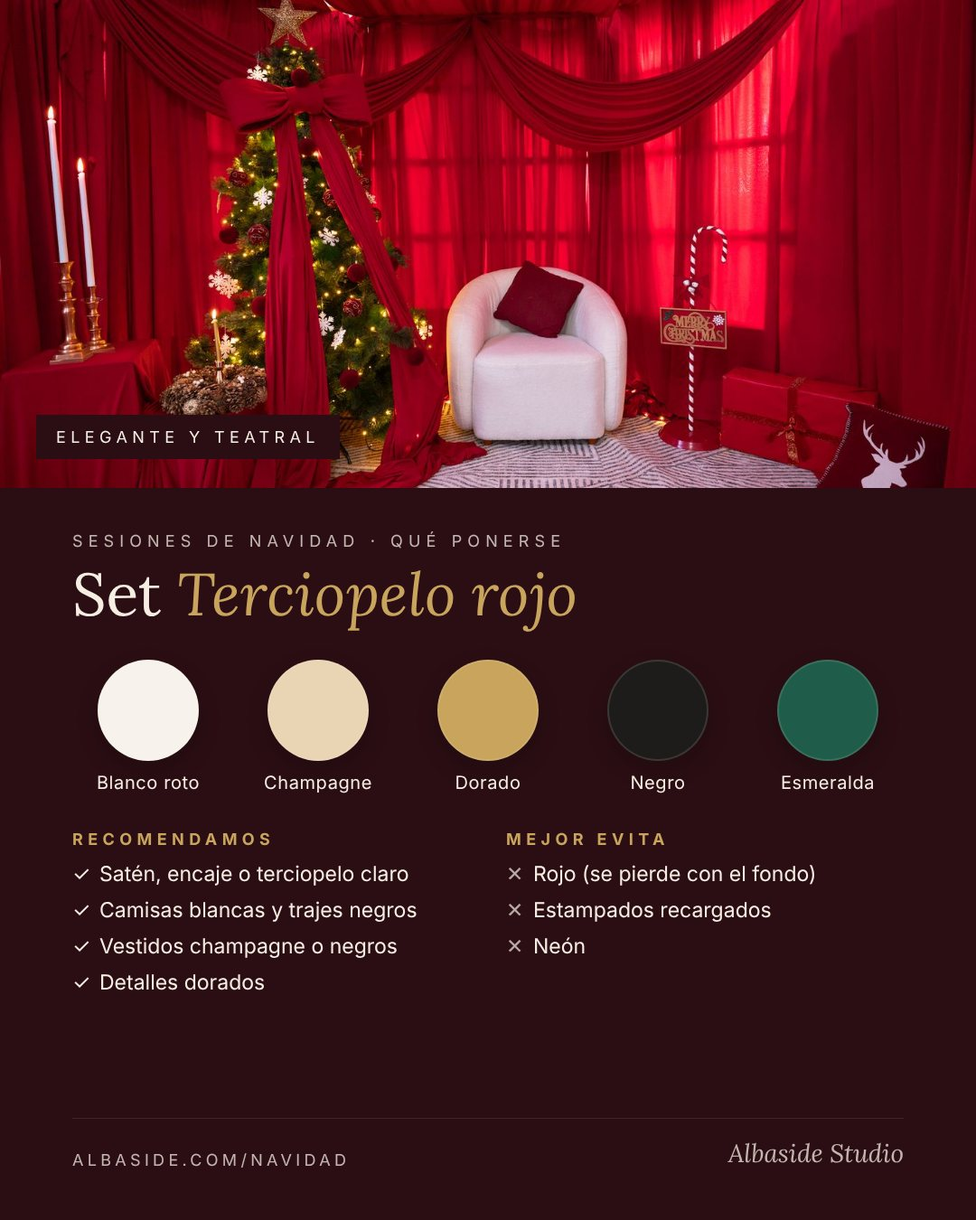
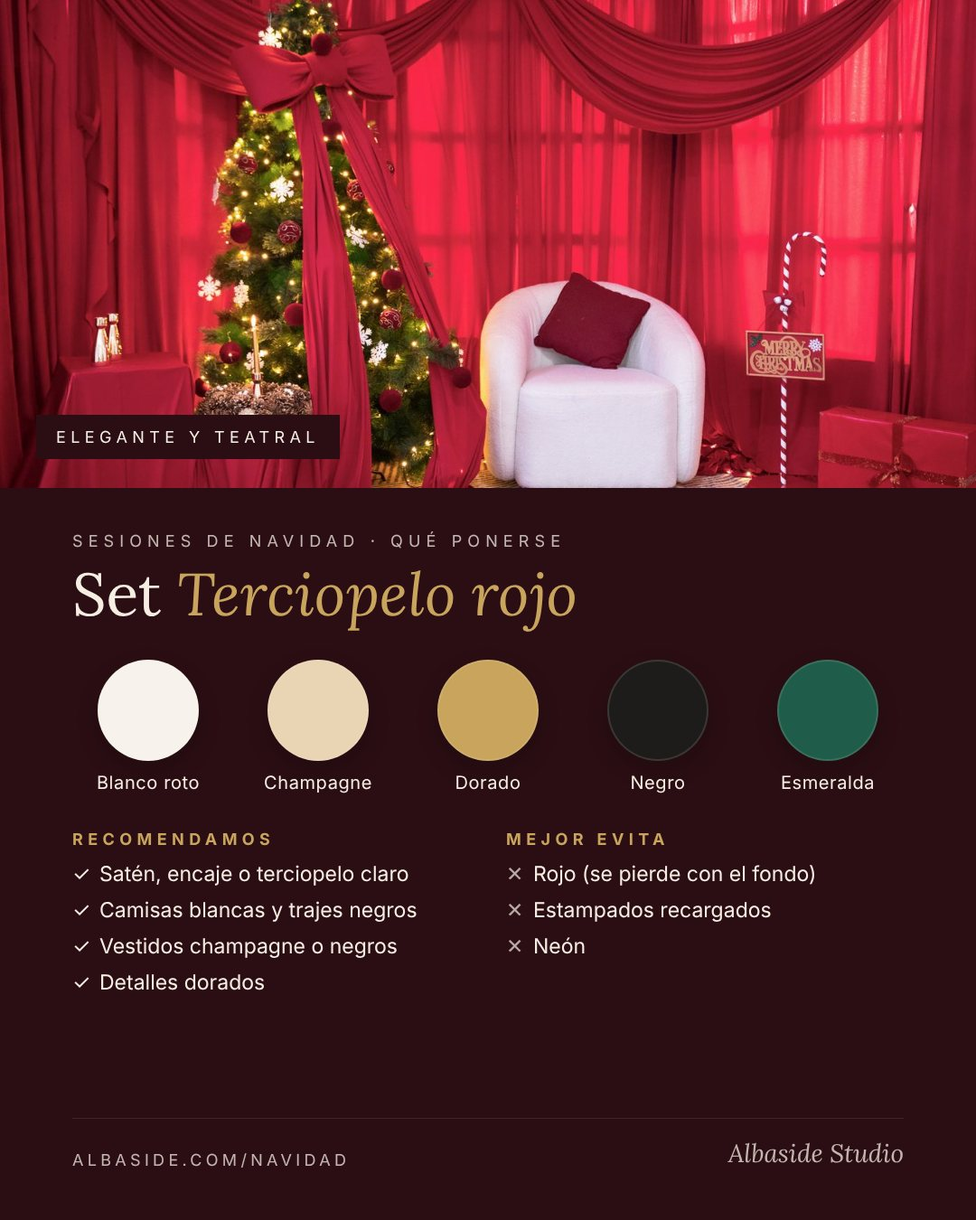
Navidad: 3 paquetes, set Disco navideño, códigos de descuento y nuevas fotos Terciopelo rojo

diff --git a/navidad.html b/navidad.html
@@ -4,7 +4,7 @@
 <meta charset="UTF-8">
 <meta name="viewport" content="width=device-width, initial-scale=1">
 <title>Sesiones de fotos de Navidad en Cusco 2026 | Albaside Studio</title>
-<meta name="description" content="Sesiones de fotos navideñas de 1 hora en estudio en Cusco, del 20 de noviembre al 15 de diciembre. Preventa desde S/ 280. De lunes a viernes. Separa tu fecha y paga tu reserva con Yape.">
+<meta name="description" content="Sesiones de fotos navideñas de 30 a 50 minutos en estudio en Cusco, del 20 de noviembre al 15 de diciembre. Preventa desde S/ 280. De lunes a viernes. Separa tu fecha y paga tu reserva con Yape.">
 <link rel="canonical" href="https://albaside.com/navidad">
 <meta name="theme-color" content="#6E1423">
 <link rel="icon" href="/favicon.ico" sizes="48x48">
@@ -14,13 +14,13 @@
 <meta property="og:locale" content="es_PE">
 <meta property="og:site_name" content="Albaside Studio">
 <meta property="og:title" content="Sesiones de Navidad 2026 · Albaside Studio">
-<meta property="og:description" content="Sesión íntima en estudio con decoración navideña. Preventa: 1 set S/ 280 · 2 sets S/ 380. De lunes a viernes, del 20 de noviembre al 15 de diciembre.">
+<meta property="og:description" content="Sesión íntima en estudio con decoración navideña. Preventa: 1 set S/ 280 · 2 sets S/ 380 · 3 sets S/ 450. De lunes a viernes, del 20 de noviembre al 15 de diciembre.">
 <meta property="og:url" content="https://albaside.com/navidad">
 <meta property="og:image" content="https://albaside.com/media/navidad/navidad-telefono.jpg">
 <meta name="twitter:card" content="summary_large_image">
 <link rel="preconnect" href="https://fonts.googleapis.com"><link rel="preconnect" href="https://fonts.gstatic.com" crossorigin>
 <link href="https://fonts.googleapis.com/css2?family=Cormorant:ital,wght@0,300;0,400;0,500;1,300;1,400&family=Montserrat:wght@300;400;500;600&display=swap" rel="stylesheet">
-<script type="application/ld+json">{"@context": "https://schema.org", "@type": "Service", "name": "Sesiones de fotos de Navidad en Cusco", "serviceType": "Sesión de fotos navideña en estudio", "provider": {"@type": "ProfessionalService", "name": "Albaside Studio", "url": "https://albaside.com/", "telephone": "+51977217281", "address": {"@type": "PostalAddress", "addressLocality": "San Jerónimo", "addressRegion": "Cusco", "addressCountry": "PE", "streetAddress": "Larapa"}}, "areaServed": "Cusco", "url": "https://albaside.com/navidad", "offers": [{"@type": "Offer", "name": "Sesión de Navidad · 1 set", "price": "280", "priceCurrency": "PEN", "availabilityEnds": "2026-12-15"}, {"@type": "Offer", "name": "Sesión de Navidad · 2 sets", "price": "380", "priceCurrency": "PEN", "availabilityEnds": "2026-12-15"}]}</script>
+<script type="application/ld+json">{"@context": "https://schema.org", "@type": "Service", "name": "Sesiones de fotos de Navidad en Cusco", "serviceType": "Sesión de fotos navideña en estudio", "provider": {"@type": "ProfessionalService", "name": "Albaside Studio", "url": "https://albaside.com/", "telephone": "+51977217281", "address": {"@type": "PostalAddress", "addressLocality": "San Jerónimo", "addressRegion": "Cusco", "addressCountry": "PE", "streetAddress": "Larapa"}}, "areaServed": "Cusco", "url": "https://albaside.com/navidad", "offers": [{"@type": "Offer", "name": "Sesión de Navidad · 1 set", "price": "280", "priceCurrency": "PEN", "availabilityEnds": "2026-12-15"}, {"@type": "Offer", "name": "Sesión de Navidad · 2 sets", "price": "380", "priceCurrency": "PEN", "availabilityEnds": "2026-12-15"}, {"@type": "Offer", "name": "Sesión de Navidad · 3 sets", "price": "450", "priceCurrency": "PEN", "availabilityEnds": "2026-12-15"}]}</script>
 <!-- META PIXEL + CAPI (deduplicados con event_id) -->
 <script>
 !function(f,b,e,v,n,t,s)
@@ -116,7 +116,7 @@ header{position:sticky;top:0;z-index:40;background:rgba(255,255,255,.95);backdro
 
 /* Sets */
 .sets{display:grid;gap:26px;margin-top:56px}
-@media(min-width:760px){.sets{grid-template-columns:repeat(2,1fr);max-width:920px;margin-left:auto;margin-right:auto}}
+@media(min-width:760px){.sets{grid-template-columns:repeat(3,1fr);max-width:1180px;margin-left:auto;margin-right:auto}}
 .set{display:flex;flex-direction:column;gap:16px}
 .set .ph{aspect-ratio:4/5;overflow:hidden;background:var(--cream);position:relative}
 .set .ph img{width:100%;height:100%;object-fit:cover;transition:transform 1.2s var(--ease)}
@@ -132,22 +132,33 @@ header{position:sticky;top:0;z-index:40;background:rgba(255,255,255,.95);backdro
 .masonry{display:grid;grid-template-columns:repeat(2,1fr);gap:8px}
 .masonry img{width:100%;height:100%;aspect-ratio:1;object-fit:cover;display:block;background:var(--cream)}
 .masonry img:first-child{grid-column:span 2;aspect-ratio:3/2}
+.masonry.duo img{grid-column:auto!important;grid-row:auto!important;aspect-ratio:2/3!important}
+.set .ph .ref{position:absolute;right:10px;bottom:10px;background:rgba(255,255,255,.85);color:var(--ink);font-size:10px;letter-spacing:.14em;text-transform:uppercase;padding:5px 8px}
+.ref-note{font-size:12px;color:var(--muted);margin-top:10px}
 .masonry img:last-child{grid-column:span 2;aspect-ratio:2/1}
-@media(min-width:760px){.masonry{grid-template-columns:repeat(3,1fr);gap:12px}.masonry img:first-child{grid-row:span 2;aspect-ratio:auto}.masonry img:last-child{grid-column:auto;aspect-ratio:1}}
+@media(min-width:760px){.masonry.duo{grid-template-columns:1fr 1fr;max-width:760px;margin:0 auto}.masonry{grid-template-columns:repeat(3,1fr);gap:12px}.masonry img:first-child{grid-row:span 2;aspect-ratio:auto}.masonry img:last-child{grid-column:auto;aspect-ratio:1}}
 
 /* Precios */
 .prices{background:var(--cream)}
 .price-grid{display:grid;gap:22px;margin-top:56px;max-width:900px;margin-left:auto;margin-right:auto}
-@media(min-width:760px){.price-grid{grid-template-columns:1fr 1fr}}
-.price{background:#fff;padding:40px 34px;text-align:center;position:relative;border:1px solid var(--line)}
-.price.feat{border-color:var(--wine)}
+.price-grid{max-width:1100px}
+@media(min-width:860px){.price-grid{grid-template-columns:repeat(3,1fr)}}
+.price{background:#fff;padding:40px 30px 30px;text-align:center;position:relative;border:1px solid var(--line);font:inherit;color:inherit;cursor:pointer;display:flex;flex-direction:column;align-items:center;transition:border-color .25s,box-shadow .25s,transform .25s}
+.price:hover{border-color:rgba(110,20,35,.45)}
+.price[aria-checked="true"]{border-color:var(--wine);box-shadow:inset 0 0 0 1px var(--wine),0 24px 50px -30px rgba(110,20,35,.45)}
+.price:focus-visible{outline:2px solid var(--gold);outline-offset:3px}
+.feat-list{list-style:none;margin:22px 0 0;padding:18px 0 0;border-top:1px solid var(--line);width:100%;display:grid;gap:8px;font-size:14px}
+.feat-list b{font-family:var(--serif);font-size:20px;font-weight:400;color:var(--wine)}
+.price .pick{margin-top:22px;font-size:10.5px;letter-spacing:.24em;text-transform:uppercase;padding:11px 18px;border:1px solid var(--wine);color:var(--wine)}
+.price[aria-checked="true"] .pick{background:var(--wine);color:#fff}
+.price[aria-checked="true"] .pick::before{content:"✓ ";}
 .price .badge{position:absolute;top:-12px;left:50%;transform:translateX(-50%);background:var(--wine);color:#fff;font:400 10px/1 var(--sans);letter-spacing:.24em;text-transform:uppercase;padding:8px 12px;white-space:nowrap}
 .price h3{margin-bottom:6px}
 .price .amt{font-family:var(--serif);font-size:64px;line-height:1;color:var(--ink);font-variant-numeric:tabular-nums}
 .price .amt small{font-size:26px;vertical-align:top;margin-right:4px}
 .price .was{display:block;margin-top:8px;font-size:13px;color:var(--muted)}
 .price .was s{color:var(--muted)}
-.price .save{display:inline-block;margin-top:14px;font-size:11px;letter-spacing:.2em;text-transform:uppercase;color:var(--olive)}
+.price .save{display:none;display:inline-block;margin-top:14px;font-size:11px;letter-spacing:.2em;text-transform:uppercase;color:var(--olive)}
 .includes{max-width:900px;margin:30px auto 0;display:grid;gap:10px;grid-template-columns:repeat(auto-fit,minmax(190px,1fr));list-style:none}
 .includes li{background:#fff;padding:16px 18px;border:1px solid var(--line);font-size:14px;display:flex;gap:10px;align-items:center}
 .includes li b{font-family:var(--serif);font-size:26px;font-weight:400;color:var(--wine);line-height:1;min-width:34px}
@@ -182,6 +193,15 @@ fieldset.f{border:0}
 .form-total b{font-family:var(--serif);font-size:30px;font-weight:400;color:var(--ink)}
 .form-msg{margin-top:12px;font-size:14px;color:var(--wine);min-height:1em}
 .hp{position:absolute;left:-9999px}
+.code-row{display:flex;gap:8px}
+.code-row input{flex:1;text-transform:uppercase;letter-spacing:.08em}
+.btn-ghost{background:#fff;border:1px solid var(--wine);color:var(--wine);padding:0 18px;white-space:nowrap}
+.btn-ghost:hover{background:var(--wine);color:#fff}
+.code-msg{font-size:13px;margin-top:6px;min-height:1em;color:var(--olive)}
+.code-msg.err{color:var(--wine)}
+.form-total b span{text-transform:none;letter-spacing:0;font-size:inherit;color:inherit}
+.form-total b s{font-size:20px;color:var(--muted);margin-right:6px}
+.form-total small.off{display:block;font-family:var(--sans);font-size:12px;color:var(--olive);letter-spacing:.04em}
 
 /* Pago con Yape */
 .pay{background:var(--cream)}
@@ -224,7 +244,8 @@ fieldset.f{border:0}
 /* Qué ponerse */
 .outfits{background:var(--cream)}
 .outfit-grid{display:grid;gap:24px;margin-top:50px;max-width:980px;margin-left:auto;margin-right:auto}
-@media(min-width:760px){.outfit-grid{grid-template-columns:1fr 1fr}}
+.outfit-grid{max-width:1180px}
+@media(min-width:760px){.outfit-grid{grid-template-columns:repeat(3,1fr)}}
 .outfit-grid img{width:100%;height:auto;box-shadow:0 30px 60px -36px rgba(43,41,38,.45)}
 .outfit-grid figcaption{font-size:12px;letter-spacing:.2em;text-transform:uppercase;color:var(--muted);margin-top:12px;text-align:center}
 .tips{list-style:none;max-width:980px;margin:34px auto 0;display:grid;gap:12px}
@@ -312,8 +333,8 @@ footer small{display:block;opacity:.75}
   <div class="wrap">
     <div class="center reveal">
       <span class="eyebrow">Elige tu decoración</span>
-      <h2>Dos sets, <em>dos navidades</em></h2>
-      <p class="lead" style="margin-top:18px">Cada set está armado en el estudio. Eliges uno o los dos, y nosotros nos encargamos de la luz, la dirección y los detalles.</p>
+      <h2>Tres sets, <em>tres navidades</em></h2>
+      <p class="lead" style="margin-top:18px">Cada set está armado en el estudio. Eliges uno, dos o los tres, y nosotros nos encargamos de la luz, la dirección y los detalles.</p>
     </div>
     <div class="sets">
       <article class="set reveal">
@@ -329,6 +350,13 @@ footer small{display:block;opacity:.75}
         <h3>Terciopelo rojo</h3>
         <p>Cortinas rojas drapeadas, un árbol envuelto en un moño gigante, velas doradas y un sillón blanco. Elegante y teatral, perfecto para fotos en familia o en pareja.</p>
         <a class="see" href="#galeria-terciopelo">Ver el set →</a>
+      </article>
+      <article class="set reveal">
+        <div class="ph"><img src="/media/navidad/set-disco.jpg" alt="Set Disco navideño: fondo verde, torres de regalos rojos y esferas de espejo plateadas alrededor de un asiento blanco" width="1000" height="1499" loading="lazy"><span class="ref">Imagen referencial</span></div>
+        <span class="num">Set 3</span>
+        <h3>Disco navideño</h3>
+        <p>Fondo verde profundo, torres de regalos rojos y esferas de espejo que llenan la foto de brillos. Divertido y moderno, ideal para amigas, parejas o fotos individuales.</p>
+        <a class="see" href="#galeria-disco">Ver el set →</a>
       </article>
     </div>
 
@@ -350,9 +378,17 @@ footer small{display:block;opacity:.75}
         <img src="/media/navidad/rojo-lazo.jpg" alt="Estrella dorada y moño rojo gigante sobre el árbol de Navidad" width="800" height="1200" loading="lazy">
         <img src="/media/navidad/rojo-letrero.jpg" alt="Bastón de caramelo con letrero Merry Christmas junto a un regalo rojo" width="800" height="1200" loading="lazy">
         <img src="/media/navidad/rojo-velas.jpg" alt="Árbol con copos de nieve blancos, esferas de terciopelo y una vela encendida" width="800" height="1200" loading="lazy">
-        <img src="/media/navidad/rojo-2.jpg" alt="Sillón blanco con cojín rojo frente a cortinas rojas drapeadas" width="1400" height="934" loading="lazy">
+        <img src="/media/navidad/set-terciopelo.jpg" alt="Árbol de Navidad envuelto en un moño rojo gigante junto al sillón blanco" width="1000" height="1499" loading="lazy">
         <img src="/media/navidad/rojo-3.jpg" alt="Vista amplia del set Terciopelo rojo con el árbol, el sillón y el bastón de caramelo" width="1400" height="933" loading="lazy">
       </div>
+    </div>
+    <div class="gal reveal" id="galeria-disco">
+      <div class="gal-h"><span class="num">Set 3</span><h3>Disco navideño</h3></div>
+      <div class="masonry duo">
+        <img src="/media/navidad/set-disco.jpg" alt="Mujer sentada entre regalos rojos y esferas de espejo, con los brazos abiertos" width="1000" height="1499" loading="lazy">
+        <img src="/media/navidad/disco-2.jpg" alt="Mujer sonriendo abrazando una esfera de espejo, rodeada de regalos rojos sobre fondo verde" width="1000" height="1499" loading="lazy">
+      </div>
+      <p class="ref-note">Imágenes referenciales del set.</p>
     </div>
   </div>
 </section>
@@ -369,6 +405,7 @@ footer small{display:block;opacity:.75}
     <div class="outfit-grid">
       <figure class="reveal"><img src="/media/navidad/outfit-bosque-nevado.jpg" alt="Paleta para el set Bosque nevado: marfil, crema, camel, chocolate y verde pino. Recomendamos tejidos de punto, lino, pana, vestidos marfil y pantalones camel; mejor evitar rojo intenso, negro total, neón y logos grandes." width="1080" height="1350" loading="lazy"><figcaption>Set Bosque nevado · tonos cálidos y naturales</figcaption></figure>
       <figure class="reveal"><img src="/media/navidad/outfit-terciopelo-rojo.jpg" alt="Paleta para el set Terciopelo rojo: blanco roto, champagne, dorado, negro y esmeralda. Recomendamos satén, encaje, camisas blancas, trajes negros y detalles dorados; mejor evitar rojo, estampados recargados y neón." width="1080" height="1350" loading="lazy"><figcaption>Set Terciopelo rojo · elegante, sin rojo</figcaption></figure>
+      <figure class="reveal"><img src="/media/navidad/outfit-disco.jpg" alt="Paleta para el set Disco navideño: blanco, plateado, rojo cereza, negro y dorado. Recomendamos lentejuelas, brillos, tejidos de punto blancos, vestidos rojos o plateados y accesorios metálicos; mejor evitar verde, estampados recargados y neón." width="1080" height="1350" loading="lazy"><figcaption>Set Disco navideño · brillos, sin verde</figcaption></figure>
     </div>
     <ul class="tips reveal">
       <li><b>Telas con textura</b> como punto, lana, terciopelo o encaje se ven muy bien en foto.</li>
@@ -386,39 +423,49 @@ footer small{display:block;opacity:.75}
       <h2>Precios <em>de preventa</em></h2>
       <p class="lead" style="margin-top:18px">Aprovecha el precio especial mientras dure la preventa.</p>
     </div>
-    <div class="price-grid">
-      <div class="price reveal">
+    <div class="price-grid" role="radiogroup" aria-label="Elige tu paquete">
+      <button type="button" class="price reveal" data-pk="1 set" role="radio" aria-checked="true">
         <h3>1 set</h3>
         <div class="amt"><small>S/</small>280</div>
         <span class="was">Precio regular <s>S/ 350</s></span>
-        <span class="save">Ahorras S/ 70</span>
-      </div>
-      <div class="price feat reveal">
+        <ul class="feat-list"><li><b>30</b> min de sesión</li><li>Hasta <b>3</b> personas</li><li><b>8</b> fotos editadas</li><li><b>1</b> decoración</li></ul>
+        <span class="pick">Elegir</span>
+      </button>
+      <button type="button" class="price reveal" data-pk="2 sets" role="radio" aria-checked="false">
         <span class="badge">El favorito</span>
         <h3>2 sets</h3>
         <div class="amt"><small>S/</small>380</div>
         <span class="was">Precio regular <s>S/ 450</s></span>
-        <span class="save">Ahorras S/ 70</span>
-      </div>
+        <ul class="feat-list"><li><b>40</b> min de sesión</li><li>Hasta <b>4</b> personas</li><li><b>12</b> fotos editadas</li><li><b>2</b> decoraciones</li></ul>
+        <span class="pick">Elegir</span>
+      </button>
+      <button type="button" class="price reveal" data-pk="3 sets" role="radio" aria-checked="false">
+        <h3>3 sets</h3>
+        <div class="amt"><small>S/</small>450</div>
+        <span class="was">Precio regular <s>S/ 550</s></span>
+        <ul class="feat-list"><li><b>50</b> min de sesión</li><li>Hasta <b>6</b> personas</li><li><b>18</b> fotos editadas</li><li><b>3</b> decoraciones</li></ul>
+        <span class="pick">Elegir</span>
+      </button>
     </div>
-    <ul class="includes reveal" aria-label="Qué incluye tu sesión">
-      <li><b>1</b> hora de sesión</li>
-      <li><b>✦</b> Decoración elegida</li>
-      <li><b>10</b> fotografías editadas</li>
+    <ul class="includes reveal" aria-label="Qué incluye tu sesión" aria-live="polite">
+      <li><b id="incMin">30</b> minutos de sesión</li>
+      <li><b id="incPer">3</b> personas como máximo</li>
+      <li><b id="incFot">8</b> fotografías editadas</li>
       <li><b>2</b> fotografías impresas</li>
     </ul>
+    <p class="center" style="margin-top:30px"><a class="btn btn-wine" href="#separar" id="goBook">Separar con <span id="goPk">1 set</span></a></p>
   </div>
 </section>
 
-<!-- 5 · SEPARAR FECHA (calendario de Cal.com, lunes a viernes, sesiones de 1 hora) -->
+<!-- 5 · SEPARAR FECHA (calendario de Cal.com, lunes a viernes; 30/40/50 min según paquete) -->
 <section id="separar">
   <div class="wrap book-grid">
     <div class="reveal">
       <span class="eyebrow">Separar fecha</span>
       <h2>Reserva tu <em>horario</em></h2>
-      <p class="lead" style="margin-top:18px">Elige tu paquete y luego el día y la hora en el calendario. Sesiones de 1 hora, de lunes a viernes, del 20 de noviembre al 15 de diciembre.</p>
+      <p class="lead" style="margin-top:18px">Elige tu paquete, tus sets y luego el día y la hora en el calendario. De lunes a viernes, del 20 de noviembre al 15 de diciembre.</p>
       <ol class="steps">
-        <li><div><b>Elige paquete y set</b>1 set o los 2 sets.</div></li>
+        <li><div><b>Elige paquete y sets</b>1, 2 o 3 sets. Si tienes un código de descuento, aplícalo aquí.</div></li>
         <li><div><b>Elige día y hora</b>En el calendario solo aparecen los horarios libres.</div></li>
         <li><div><b>Paga S/ 50 por Yape</b>Y envía el comprobante por WhatsApp para confirmar.</div></li>
       </ol>
@@ -427,24 +474,31 @@ footer small{display:block;opacity:.75}
     <div class="card reveal" id="bookCard" style="background:var(--cream);padding:34px 28px">
       <form id="pickForm" novalidate>
         <fieldset class="f"><legend>Paquete</legend>
-          <div class="opts two">
-            <label class="opt"><input type="radio" name="paquete" value="1 set" checked><span>1 set<small>S/ 280 en preventa</small></span></label>
-            <label class="opt"><input type="radio" name="paquete" value="2 sets"><span>2 sets<small>S/ 380 · Bosque nevado y Terciopelo rojo</small></span></label>
+          <div class="opts three">
+            <label class="opt"><input type="radio" name="paquete" value="1 set" checked><span>1 set<small>30 min · 3 personas · 8 fotos</small></span></label>
+            <label class="opt"><input type="radio" name="paquete" value="2 sets"><span>2 sets<small>40 min · 4 personas · 12 fotos</small></span></label>
+            <label class="opt"><input type="radio" name="paquete" value="3 sets"><span>3 sets<small>50 min · 6 personas · 18 fotos</small></span></label>
           </div>
         </fieldset>
-        <fieldset class="f" id="setField" style="margin-top:16px"><legend>Set</legend>
-          <div class="opts two">
-            <label class="opt"><input type="radio" name="set" value="Bosque nevado" checked><span>Bosque nevado</span></label>
-            <label class="opt"><input type="radio" name="set" value="Terciopelo rojo"><span>Terciopelo rojo</span></label>
+        <fieldset class="f" id="setField" style="margin-top:16px"><legend id="setLegend">Elige 1 set</legend>
+          <div class="opts three">
+            <label class="opt"><input type="checkbox" name="set" value="Bosque nevado" checked><span>Bosque nevado</span></label>
+            <label class="opt"><input type="checkbox" name="set" value="Terciopelo rojo"><span>Terciopelo rojo</span></label>
+            <label class="opt"><input type="checkbox" name="set" value="Disco navideño"><span>Disco navideño</span></label>
           </div>
         </fieldset>
-        <div class="form-total"><span>Total de tu paquete</span><b id="total">S/ 280</b></div>
+        <div class="f code" style="margin-top:16px">
+          <label for="code">Código de descuento</label>
+          <div class="code-row"><input id="code" name="code" autocomplete="off" autocapitalize="characters" spellcheck="false" placeholder="Escribe tu código"><button type="button" class="btn btn-ghost" id="applyCode">Aplicar</button></div>
+          <p class="code-msg" id="codeMsg" aria-live="polite"></p>
+        </div>
+        <div class="form-total"><span>Total de tu paquete</span><b><s id="totalWas" hidden></s> <span id="total">S/ 280</span></b></div>
         <button class="btn btn-wine" style="margin-top:20px;width:100%" type="submit">Elegir día y hora</button>
       </form>
       <div id="calStep" hidden>
         <div class="pick-sum"><span>Tu paquete: <b id="pickTxt"></b></span><button type="button" class="linkbtn" id="changePick">Cambiar</button></div>
         <div class="cal-wrap" id="cal-navidad"><div class="cal-ph">Cargando el calendario…</div></div>
-        <p class="micro">¿No carga? <a href="https://cal.com/albaside/navidad" target="_blank" rel="noopener" id="calLink">Abre el calendario aquí</a>.</p>
+        <p class="micro">¿No carga? <a href="https://cal.com/albaside/navidad-1-set" target="_blank" rel="noopener" id="calLink">Abre el calendario aquí</a>.</p>
       </div>
       <p class="form-msg" id="formMsg" role="status" aria-live="polite"></p>
     </div>
@@ -504,8 +558,8 @@ footer small{display:block;opacity:.75}
     <div class="faq reveal">
       <details><summary>¿Qué días hay sesiones de Navidad?</summary><p>De lunes a viernes, del 20 de noviembre al 15 de diciembre de 2026. Sábados y domingos no hay sesiones. En el calendario de reservas solo aparecen los horarios libres.</p></details>
       <details><summary>¿Dónde es la sesión?</summary><p>En nuestro estudio en Larapa, San Jerónimo, Cusco. Te enviamos la ubicación exacta al confirmar tu reserva.</p></details>
-      <details><summary>¿Cuánto dura y qué incluye?</summary><p>La sesión dura 1 hora e incluye la decoración elegida, 10 fotografías editadas y 2 fotografías impresas.</p></details>
-      <details><summary>¿Cómo separo mi fecha?</summary><p>Eliges tu paquete, reservas día y hora en el calendario, pagas S/ 50 por Yape y nos mandas el comprobante por WhatsApp.</p></details>
+      <details><summary>¿Cuánto dura y qué incluye?</summary><p>Depende del paquete. 1 set: 30 minutos, hasta 3 personas y 8 fotos editadas. 2 sets: 40 minutos, hasta 4 personas y 12 fotos editadas. 3 sets: 50 minutos, hasta 6 personas y 18 fotos editadas. Todos incluyen 2 fotografías impresas.</p></details>
+      <details><summary>¿Cómo separo mi fecha?</summary><p>Eliges tu paquete y tus sets, aplicas tu código de descuento si tienes uno, reservas día y hora en el calendario, pagas S/ 50 por Yape y nos mandas el comprobante por WhatsApp.</p></details>
       <details><summary>¿Qué es el recuerdo especial?</summary><p>Un regalo para las primeras 5 familias que reserven. Te contamos cuál es cuando confirmes tu fecha.</p></details>
     </div>
   </div>
@@ -537,14 +591,72 @@ document.querySelectorAll('[data-copy]').forEach(function(b){b.addEventListener(
   if(navigator.clipboard){navigator.clipboard.writeText(v).then(function(){toast('Número copiado: '+v)}).catch(function(){toast('Copia el número: '+v)})}else toast('Copia el número: '+v);
 })});
 
-// Reserva: paso 1 paquete/set → paso 2 calendario de Cal.com (con el paquete ya escrito en las notas)
+// Paquetes: datos, selección desde Precios y reserva con Cal.com
+var PK={
+  '1 set': {n:1,precio:280,regular:350,min:30,per:3,fot:8, cal:'albaside/navidad-1-set'},
+  '2 sets':{n:2,precio:380,regular:450,min:40,per:4,fot:12,cal:'albaside/navidad-2-sets'},
+  '3 sets':{n:3,precio:450,regular:550,min:50,per:6,fot:18,cal:'albaside/navidad-3-sets'}
+};
+// Códigos de descuento (se guardan como huella, no en texto plano). La pareja/familia paga la diferencia luego; tú confirmas el código en el CRM.
+var CODES={'bdf0c9c6':{pct:50,label:'ABLAFRIENDS'},'01a5a4da':{pct:50,label:'ALBAFRIENDS'},'5a772116':{pct:30,label:'ALBA30'}};
+function huella(s){var h=2166136261>>>0;s=String(s).trim().toUpperCase();for(var i=0;i<s.length;i++){h^=s.charCodeAt(i);h=Math.imul(h,16777619)>>>0}return ('0000000'+h.toString(16)).slice(-8)}
 (function(){
   var f=document.getElementById('pickForm'); if(!f) return;
-  var precios={'1 set':280,'2 sets':380}, total=document.getElementById('total'), msg=document.getElementById('formMsg');
-  var setField=document.getElementById('setField'), step2=document.getElementById('calStep'), box=document.getElementById('cal-navidad');
-  function eleccion(){var p=f.paquete.value;return {p:p,set:p==='2 sets'?'Bosque nevado y Terciopelo rojo':f.set.value,total:precios[p]}}
-  function upd(){var e=eleccion();total.textContent='S/ '+e.total;setField.hidden=e.p==='2 sets'}
-  f.addEventListener('change',upd);upd();
+  var total=document.getElementById('total'), was=document.getElementById('totalWas'), msg=document.getElementById('formMsg');
+  var legend=document.getElementById('setLegend'), step2=document.getElementById('calStep'), box=document.getElementById('cal-navidad');
+  var codeIn=document.getElementById('code'), codeMsg=document.getElementById('codeMsg'), desc=null;
+  var cards=[].slice.call(document.querySelectorAll('.price[data-pk]'));
+  function sets(){return [].slice.call(f.querySelectorAll('input[name=set]'))}
+  function eleccion(){
+    var p=f.paquete.value, k=PK[p], elegidos=sets().filter(function(i){return i.checked}).map(function(i){return i.value});
+    var t=desc?Math.round(k.precio*(100-desc.pct)/100):k.precio;
+    return {p:p,k:k,set:elegidos.join(' y '),n:elegidos.length,total:t,code:desc};
+  }
+  function syncPrecios(p){
+    var k=PK[p];
+    cards.forEach(function(c){c.setAttribute('aria-checked',c.getAttribute('data-pk')===p?'true':'false')});
+    document.getElementById('incMin').textContent=k.min;document.getElementById('incPer').textContent=k.per;document.getElementById('incFot').textContent=k.fot;
+    document.getElementById('goPk').textContent=p;
+  }
+  function ajustarSets(){
+    var k=PK[f.paquete.value], s=sets(), on=s.filter(function(i){return i.checked});
+    while(on.length>k.n){on.pop().checked=false;on=s.filter(function(i){return i.checked})}
+    s.forEach(function(i){if(on.length<k.n&&!i.checked){i.checked=true;on.push(i)}});
+    legend.textContent=k.n===3?'Incluye los 3 sets':'Elige '+k.n+(k.n===1?' set':' sets');
+    s.forEach(function(i){i.disabled=k.n===3});
+  }
+  function upd(){
+    var e=eleccion();
+    total.innerHTML='S/ '+e.total+(e.code?'<small class="off">Código '+e.code.label+' · −'+e.code.pct+'%</small>':'');
+    was.hidden=!e.code; was.textContent='S/ '+e.k.precio;
+    syncPrecios(e.p);
+  }
+  f.addEventListener('change',function(ev){
+    var t=ev.target;
+    if(t.name==='set'){
+      var k=PK[f.paquete.value], on=sets().filter(function(i){return i.checked});
+      if(k.n===1&&t.checked){sets().forEach(function(i){if(i!==t)i.checked=false})}
+      else if(on.length>k.n){t.checked=false;toast('Tu paquete incluye '+k.n+' sets')}
+      else if(!t.checked&&on.length<1){t.checked=true}
+    } else ajustarSets();
+    upd();
+  });
+  cards.forEach(function(c){c.addEventListener('click',function(){
+    var p=c.getAttribute('data-pk');f.querySelector('input[name=paquete][value="'+p+'"]').checked=true;ajustarSets();upd();
+  })});
+  document.getElementById('goBook').addEventListener('click',function(){if(step2&&!step2.hidden){step2.hidden=true;f.hidden=false}});
+  function aplicar(){
+    var v=codeIn.value.trim();
+    if(!v){desc=null;codeMsg.textContent='';codeMsg.className='code-msg';upd();return}
+    var c=CODES[huella(v)];
+    if(c){desc=c;codeMsg.textContent='Código aplicado: '+c.pct+'% de descuento.';codeMsg.className='code-msg';toast('¡Descuento aplicado!')}
+    else{desc=null;codeMsg.textContent='Ese código no es válido.';codeMsg.className='code-msg err'}
+    upd();
+  }
+  document.getElementById('applyCode').addEventListener('click',aplicar);
+  codeIn.addEventListener('keydown',function(e){if(e.key==='Enter'){e.preventDefault();aplicar()}});
+  ajustarSets();upd();
+
   var calLoaded=false;
   function loadCal(cb){
     if(calLoaded) return cb();
@@ -556,7 +668,7 @@ document.querySelectorAll('[data-copy]').forEach(function(b){b.addEventListener(
       try{var st=d&&(d.date||d.startTime||(d.booking&&d.booking.startTime));if(st)when=new Date(st).toLocaleString('es-PE',{weekday:'long',day:'numeric',month:'long',hour:'2-digit',minute:'2-digit'})}catch(x){}
       var e=eleccion();
       msg.textContent='¡Tu horario quedó reservado'+(when?' para el '+when:'')+'! Para confirmarlo, paga S/ 50 por Yape y envíanos el comprobante.';
-      var t='Hola Albaside 🎄 Reservé una sesión de Navidad'+(when?' para el '+when:'')+'.\n• Paquete: '+e.p+' (S/ '+e.total+')\n• Set: '+e.set+'\nTe envío el comprobante de los S/ 50 por Yape.';
+      var t='Hola Albaside 🎄 Reservé una sesión de Navidad'+(when?' para el '+when:'')+'.\n• Paquete: '+e.p+' ('+e.k.min+' min, hasta '+e.k.per+' personas)\n• Sets: '+e.set+'\n• Total: S/ '+e.total+(e.code?' (código '+e.code.label+', −'+e.code.pct+'%)':'')+'\nTe envío el comprobante de los S/ 50 por Yape.';
       document.getElementById('sendProof').href='https://wa.me/51977217281?text='+encodeURIComponent(t);
       try{if(window.trackBoth)trackBoth('Lead',{content_name:'Sesión de Navidad',value:e.total,currency:'PEN'})}catch(x){}
       setTimeout(function(){document.getElementById('pago').scrollIntoView({behavior:'smooth'})},1800);
@@ -565,14 +677,16 @@ document.querySelectorAll('[data-copy]').forEach(function(b){b.addEventListener(
   }
   f.addEventListener('submit',function(ev){
     ev.preventDefault();
-    var e=eleccion(), notes='Paquete: '+e.p+' (S/ '+e.total+') · Set: '+e.set;
-    document.getElementById('pickTxt').textContent=e.p+' · '+e.set+' · S/ '+e.total;
-    document.getElementById('calLink').href='https://cal.com/albaside/navidad?notes='+encodeURIComponent(notes);
+    var e=eleccion();
+    if(e.n!==e.k.n){msg.textContent='Elige '+e.k.n+(e.k.n===1?' set':' sets')+' para tu paquete.';return}
+    var notes='Paquete: '+e.p+' · '+e.k.min+' min · hasta '+e.k.per+' personas · '+e.k.fot+' fotos | Sets: '+e.set+' | Total: S/ '+e.total+(e.code?' (código '+e.code.label+' −'+e.code.pct+'%, regular S/ '+e.k.precio+')':'');
+    document.getElementById('pickTxt').textContent=e.p+' · '+e.set+' · S/ '+e.total+(e.code?' con '+e.code.label:'');
+    document.getElementById('calLink').href='https://cal.com/'+e.k.cal+'?notes='+encodeURIComponent(notes);
     f.hidden=true;step2.hidden=false;msg.textContent='';
     try{if(window.trackBoth)trackBoth('interesado_reunion',{content_name:'Sesión de Navidad · '+e.p})}catch(x){}
     loadCal(function(){
       box.innerHTML='';
-      Cal.ns.navidad("inline",{elementOrSelector:"#cal-navidad",calLink:"albaside/navidad",config:{notes:notes,layout:"month_view",theme:"light"}});
+      Cal.ns.navidad("inline",{elementOrSelector:"#cal-navidad",calLink:e.k.cal,config:{notes:notes,layout:"month_view",theme:"light"}});
     });
     step2.scrollIntoView({behavior:'smooth',block:'start'});
   });
